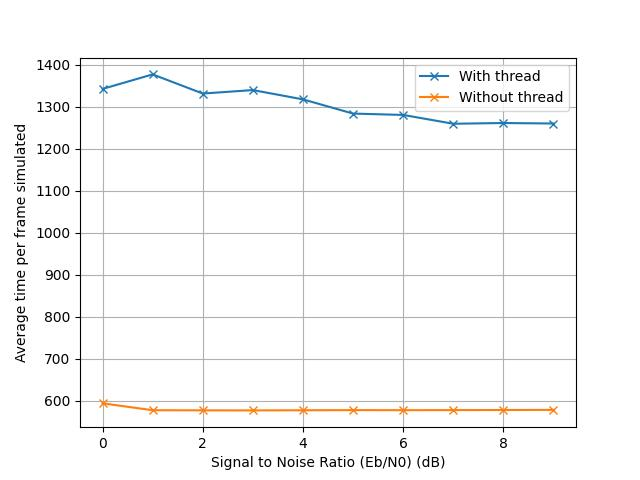
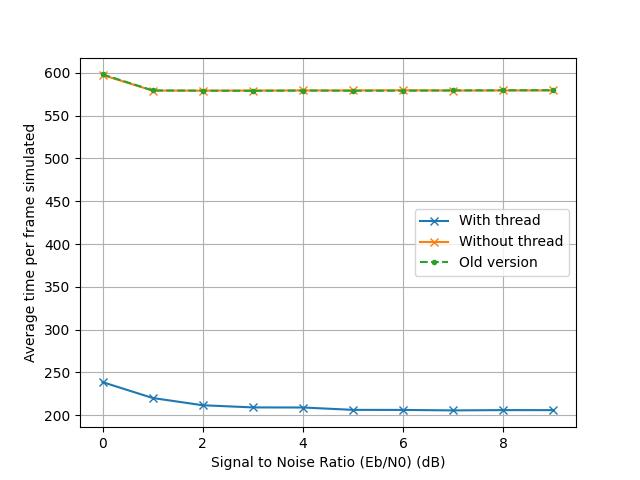
thread done

diff --git a/Modulateur/simulator.c b/Modulateur/simulator.c
@@ -474,20 +474,19 @@ int main(int argc, char **argv)
         {
             avg_time[i] = (float)avg_time[i] / n_frame_simulated;
         }
-        printf("avg demod time: %f\n", avg_time[4]);
         for (int i = 0; i < 7; i++)
         {
             avg_thr[i] = (float)block_bits[i] / avg_time[i];
         }
 
         fprintf(file_stats, "%f,%f,%f,%f,%f,%f,%f,%f,%f,%f,%f,%f,%f,%f,%f,%f,%f,%f,%f,%f,%f,%f,%f,%f,%f,%f,%f,%f,%f,%f,%f,%f,%f,%f,%f,%f\n", val,
-                avg_time[0], min_time[0], max_time[0], avg_thr[0], avg_time[0] * 100 / (total_time_func / n_frame_simulated),
-                avg_time[1], min_time[1], max_time[1], avg_thr[1], avg_time[1] * 100 / (total_time_func / n_frame_simulated),
-                avg_time[2], min_time[2], max_time[2], avg_thr[2], avg_time[2] * 100 / (total_time_func / n_frame_simulated),
-                avg_time[3], min_time[3], max_time[3], avg_thr[3], avg_time[3] * 100 / (total_time_func / n_frame_simulated),
-                avg_time[4], min_time[4], max_time[4], avg_thr[4], avg_time[4] * 100 / (total_time_func / n_frame_simulated),
-                avg_time[5], min_time[5], max_time[5], avg_thr[5], avg_time[5] * 100 / (total_time_func / n_frame_simulated),
-                avg_time[6], min_time[6], max_time[6], avg_thr[6], avg_time[6] * 100 / (total_time_func / n_frame_simulated));
+                avg_time[0], min_time[0], max_time[0], avg_thr[0], avg_time[0] * 100 / (average / n_frame_simulated),
+                avg_time[1], min_time[1], max_time[1], avg_thr[1], avg_time[1] * 100 / (average / n_frame_simulated),
+                avg_time[2], min_time[2], max_time[2], avg_thr[2], avg_time[2] * 100 / (average / n_frame_simulated),
+                avg_time[3], min_time[3], max_time[3], avg_thr[3], avg_time[3] * 100 / (average / n_frame_simulated),
+                avg_time[4], min_time[4], max_time[4], avg_thr[4], avg_time[4] * 100 / (average / n_frame_simulated),
+                avg_time[5], min_time[5], max_time[5], avg_thr[5], avg_time[5] * 100 / (average / n_frame_simulated),
+                avg_time[6], min_time[6], max_time[6], avg_thr[6], avg_time[6] * 100 / (average / n_frame_simulated));
         fflush(file_stats);
 #endif
 

diff --git a/Modulateur/graphs.py b/Modulateur/graphs.py
@@ -9,25 +9,29 @@ import pandas
 ## Files = (namefile, legend, print format)
 ## with print format being first the dot style (x, +, . ...) and then the line style (usually - for continuous or -- for dashed)
 files = [ 
-         ("sim_thread.csv", "With thread", "x-"),
-         ("sim_nothread.csv", "Without thread", "x-"),     
+         ("sim_demodnor.csv", "Old version", "y--"),
+         ("sim_thread.csv", "With thread", "r-"),
+         ("sim_nothread.csv", "Without thread", "b-"), 
 ]
 
-output = "thread_speed"
+output = "thread"
 xlabel = "Signal to Noise Ratio (Eb/N0) (dB)"  
-ylabel = "Average time per frame simulated"
+ylabel = "Error Rates"
 x = "Eb/No"
-y1 = "Average time for one frame"
+y1 = "BER"
+y2 = "FER"
 
 for elem in files:
     sim = pandas.read_csv(elem[0])
     simX = sim[[x]]
     simY = sim[[y1]]
-    plt.plot(simX, simY, elem[2], label=elem[1])
+    plt.plot(simX, simY, "o"+elem[2], label="BER "+elem[1])
+    simY = sim[[y2]]
+    plt.plot(simX, simY, "s"+elem[2], label="FER "+elem[1])
 
 plt.xlabel(xlabel)
 plt.ylabel(ylabel)
-#plt.yscale("log")
+plt.yscale("log")
 plt.legend()
 plt.grid()
 plt.savefig(output+".jpg", format="jpg")

diff --git a/Modulateur/rapport_projet.md b/Modulateur/rapport_projet.md
@@ -6,28 +6,36 @@ WILCOX Grace
 ## Using threads
 We will use mutex (locks) to avoid concurrent access on the frame error and bit error variables. Because we will run multiple threads at once, we might stop above `f_max` frames simulated.
 
+To speed up the whole chain, we decided to be mono-thread for the reading of the command line parameters. For each SNR, we then initialize Es/N0 and sigma, before creating threads. Those threads will all do the do-while loop with the whole simulation chain. They all share the same `n_frame_simulated` variable, and they will return when they detect the total number of simulated frames is above f_max. Note that it might be above that number because several threads execute at the same time.
+When all threads return, we then use the collected data to display the statistics in mono-thread.  
+Because the Nano has 6 cores, we will launch 5 threads plus the initial process, so 6 threads in total.
 
-**todo rédiger**
-Changer le monitor pour qu'il prenne des verrous en paramètre
-Rajouter 2 verrous pour le count fer et le count ber (permet de pipeliner un peu)
-On join les threads après la boucle while et on les crée au début, APRES le reset de la variable (comme ca pas besoin de locks pour ca) 
-On a besoin de mettre les pointeurs de fonction en global pour les partager - pas un problème vu que c'est les mêmes pour tous les threads et non modifié
-On a 6 CPU : on va faire 6 threads
+Because of the way C threads work, we had to totally rearrange our code:
+- A lot of our variables were made global. Because thread routines can't take arguments, that was the only way we could make our function pointers visible from one function (main) to another (routine).
+- Because some of those global variables are susceptible of being manipulated by several threads at the same time, we created mutex to protect access to those variables. In order to write one of those variables, one thread should first acquire the corresponding mutex, then edit the value, and then release the mutex. This guarantees exclusive access. The time spent with a lock is reduced to the minimum.
+  - To make those variables visible from the monitor function too (which manipulates the n_frame/bit_errors variables), we also declare mutex in this function, but as extern. That tells the compiler that those variables are guaranteed to exist, but defined in another file, that will later be linked together.
+  - We also need locks for time manipulation and block statistics. We tried using local variables to measure time spent in a block, but that doesn't seem to work.
+- The do-while loop is now in its own function, and that is the routine the threads will call upon creation.
+- The `clock()` function we were using up to now to measure time seemed to add up the time spent in all threads: even if we could see the execution was quicker, our measures would tell us that the threads were taking 6x longer to execute a function. We changed the function used to measure time to `clock_gettime()` using the `CLOCK_REALTIME` to adapt to that.
 
-On a du refaire tout le code à cause de comment c'était : on passe toutes les variables en global pour qu'on puisse y accéder dans la routine sans passage de param (impossible)
-Du coup on a testé qu'on n'a pas cassé le code avec une ancienne sim
+We also verified that our gestion of random was correct. We have only one random number generator, that all threads use. This way, when one thread polls a random number, the next thread polling a number from this same generator will not pull the same number.
 
-Ce qu'on a fait:
-Rajout d'un flag -t pour activer les threads
-Pas le choix du nombre, on en met 1 par core donc 6 en tout
-On déplace tout le do while dans une fonction qu'on appelle
-On join à chaque fois qu'on a atteint le nombre max d'erreurs, pour que le programme principal fasse les calculs et l'écriture dans un fichier
-Puis on re split pour le SNR suivant
+**Testing**
+Because we rearranged the whole code, we chose to use an earlier simulation to compare the performances. We then tested the code with and without threads to compare the performances.  
+At first, we could see that the execution time with threads was higher than without threads. We reduced the number of threads and displayed the elapsed time after each SNR to see where the problem came from. We then saw that the time for only 1 function, not including threads, was bigger with threads compared to without threads ; that's how we noticed that our measuring method couldn't work with threads.  
+To test our random generators, we displayed the generated frames and could see that they were different. We also tested the channel randomizer, by using the all ones modulator and printing the noisy output. We could also see that they were different.
+*Source test*
+![alt text](<random_source.jpg>)
+*Channel test*
+![alt text](<channel_random.jpg>)
 
-Pour les mutex : on les re-déclare en extern dans le monitor.h pour qu'il n'y ait pas d'erreur de compilation vu que ces fonctions les utilisent
-On limite le temps de prise de verrou au max (juste 1 lecture/écriture)
+**Performances**
+We first tested if our decoding performances were still correct. As mentionned, because we changed the structure of the code, we used an earlier simulation as a comparison point. We could see that both without and with threads had the same decoding performances as before, meaning our code is still correct.
+![correct](thread.jpg)
 
-On doit un peu ré-arranger le code pour qu'il compile sans erreurs
+We then compared the time spent for simulating one frame, as well as the throughput of one frame. Both went up for the thread version, although it is not 6 times faster, presumably because of the locks slowdown.
+![speed](thread_speed.jpg)
+![throughput](thread_throughput.jpg)
 
 
 # Axe 2 - Optimize one blockwith SIMD
@@ -83,7 +91,7 @@ The input and output of the demodulator are both floating point arrays because t
 Testing of the demodulator was performed the same as for the modulator, using the debug function to compare the vectorized demodulator with the original scalar version. 
 ![alt text](demod_debug.png)
 
-**Performance**
+**Performances**
 Simulated using:
 - random generator
 - standard repetition encoder, 256 reps
